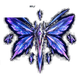
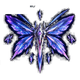
Restore Phantom wing tips

Changed region(s): [[0.05, 0.175, 0.35, 0.225], [0.35, 0.075, 0.375, 0.1]]

diff --git a/CHANGELOG.md b/CHANGELOG.md
@@ -585,3 +585,9 @@
 - Preserved original padding and all floating shards; no tight-bbox scaling.
 - Removed title text and Raven detail cards only.
 - Kept all three on the same 80×80 canvas.
+
+## 0.9.7 — Phantom wing restoration
+
+- Raven right wing tip restored by moving the detail-card mask outward.
+- Butterfly upper-left wing restored by replacing the rectangular title mask with a title-only mask.
+- Phantom trio remains on the full 512px cell with original padding.
